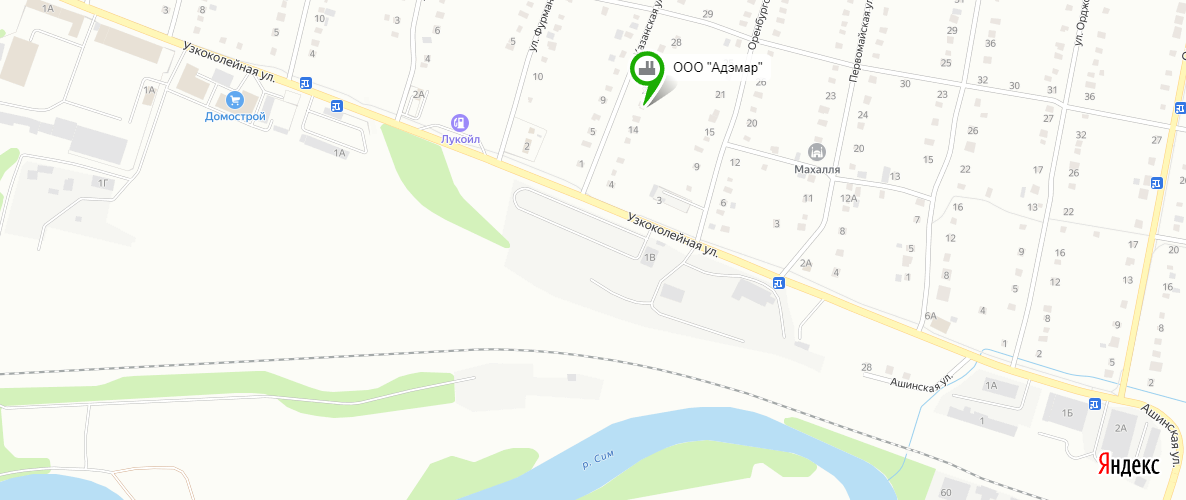
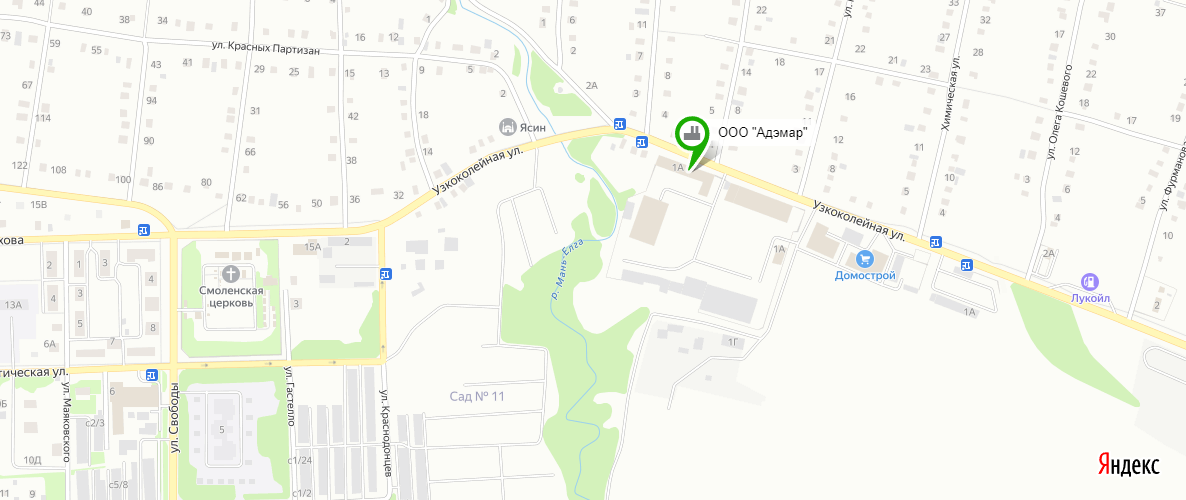
Edits from 06.10

diff --git a/source/index.html b/source/index.html
@@ -84,7 +84,7 @@
             <a class="header__contacts-link header__contacts-link--phone" href="tel:+79823304737">8 982 330 47 37</a>
           </li>
           <li class="header__contact">
-            <a class="header__contacts-link header__contacts-link--mail" href="mailto:archi00074@mail.ru">archi00074@mail.ru</a>
+            <a class="header__contacts-link header__contacts-link--mail" href="mailto:ademar_zakaz@mail.ru">ademar_zakaz@mail.ru</a>
           </li>
         </ul>
         <button class="header__button" type="button">
@@ -156,7 +156,7 @@
           <ul class="services__list">
             <li class="services__item" data-name="laser">
               <div class="services__title-wrapper">
-                <h3 class="services__item-title">Лазерная и плазменная<br>резка металла</h3>
+                <h3 class="services__item-title">Лазерная резка металла</h3>
                 <button class="services__button services__button--active" type="button">
                   <span class="visually-hidden">Показать описание услуги</span>
                 </button>
@@ -179,28 +179,19 @@
                 <p class="services__text">Максимальный диаметр отверстий – 30мм, толщина обрабатываемого металла – 20мм.</p>
               </div>
             </li>
-            <li class="services__item" data-name="pipe">
+            <li class="services__item" data-name="cutting">
               <div class="services__title-wrapper">
-                <h3 class="services__item-title">Резка труб и профилей</h3>
+                <h3 class="services__item-title">Плазменная резка металла</h3>
                 <button class="services__button services__button--active" type="button">
                   <span class="visually-hidden">Показать описание услуги</span>
                 </button>
               </div>
               <div class="services__description services__description--active">
-                <img class="services__img" src="./images/s-pipe.jpg" width="280" height="280" alt="Резка труб и профилей">
-                <p class="services__text">Наши специалисты выполняют резку металлических труб или профилей на современных моделях ленточнопильных станков. Это оборудование позволяет работать с металлопрокатом любых видов (поперечное сечение не более 260х260 мм) и обеспечивать качественный рез без заусенцев.</p>
-              </div>
-            </li>
-            <li class="services__item" data-name="cutting">
-              <div class="services__title-wrapper">
-                <h3 class="services__item-title">Раскрой листового металла</h3>
-                <button class="services__button" type="button">
-                  <span class="visually-hidden">Показать описание услуги</span>
-                </button>
-              </div>
-              <div class="services__description">
                 <img class="services__img" src="./images/s-cutting.jpg" width="280" height="280" alt="Раскрой листового металла">
-                <p class="services__text">Раскрой металла выполняем на координатно-высечном гидравлическом прессе TRUMPF ТС 200, оснащенном системой с числовым программным управлением. Данное производственное оборудование дает возможность выполнять необходимые операции с алюминиевыми, стальными и листами из нержавейки толщиной до 3 мм.</p>
+                <p class="services__text">
+                  Плазменная резка – один из самых сложных видов обработки металлов. Для реализации этих услуг требуется современное высокотехнологичное оборудование,
+                  а также профессионализм и опыт оператора. Компания "Адэмар" предлагает услуги по плазменному раскрою стальных и алюминиевых листов и плин на станках с ЧПУ.
+                </p>
               </div>
             </li>
             <li class="services__item" data-name="bendling">
@@ -224,7 +215,7 @@
               </div>
               <div class="services__description">
                 <img class="services__img" src="./images/s-welding.jpg" width="280" height="280" alt="Сварка металла">
-                <p class="services__text">Наша компания производит сварочные работы с 1999 года — за это время нами накоплен огромный опыт, который позволяет обеспечивать высочайшее качество услуг при доступной стоимости работ. Также мы значительно расширили материально-техническую базу предприятия и освоили большинство технологий термического соединения материалов.</p>
+                <p class="services__text">Наша компания производит сварочные работы с 2009 года — за это время нами накоплен огромный опыт, который позволяет обеспечивать высочайшее качество услуг при доступной стоимости работ. Также мы значительно расширили материально-техническую базу предприятия и освоили большинство технологий термического соединения материалов.</p>
               </div>
             </li>
             <li class="services__item" data-name="painting">
@@ -286,13 +277,7 @@
               <div class="services__description">
                 <img class="services__img" src="./images/s-product.jpg" width="280" height="280" alt="Пример готовой продукции">
                 <p class="services__text">
-                  Возможность изготовления крупных и очень крупных партий в короткий срок (30 – 50 тыс. шт.).
-                  Выполнение Ваших заказов по выигранным тендерам в оговоренные сроки.
-                  Сварочные работы на 6-8 сварочных постах. Все оборудование с ЧПУ.
-                  Круглосуточная работа.
-                  Две линии порошковой окраски.
-                  Изготовление металлокаркасов для производителей изделий из ДСП.
-                  Расчет по чертежам в течение двух дней.
+                  тут будет фото
                 </p>
               </div>
             </li>
@@ -343,9 +328,9 @@
           <div class="contacts__content">
             <address class="contacts__wrapper">
               <div class="contacts__inner">
-                <p class="contacts__text contacts__text--address">Челябинская область,<br>г. Аша, ул. Казанская, 18</p>
+                <p class="contacts__text contacts__text--address">Челябинская область,<br>г. Аша, ул. Узкоколейная, 1А</p>
                 <p class="contacts__text contacts__text--time">
-                  <span>Пн-Пт: <time datetime="08:00">8:00</time> - <time datetime="22:00">22:00</time></span>
+                  <span>Пн-Пт: <time datetime="08:00">08:00</time> - <time datetime="17:00">17:00</time></span>
                   <span>Сб-Вс: Выходной</span>
                 </p>
               </div>
@@ -354,7 +339,7 @@
                   <a class="contacts__link" href="tel:+79823304737">8 982 330 47 37</a>
                 </p>
                 <p class="contacts__text contacts__text--mail">
-                  <a class="contacts__link" href="mailto:archi00074@mail.ru">archi00074@mail.ru</a>
+                  <a class="contacts__link" href="mailto:ademar_zakaz@mail.ru">ademar_zakaz@mail.ru</a>
                 </p>
               </div>
             </address>
@@ -418,7 +403,6 @@
             </li>
           </ul>
         </div>
-        <p class="footer__copyright">© 2024 Адэмар</p>
       </div>
     </footer>
     <button class="scroll-up" type="button">

diff --git a/source/styles/blocks/contacts.scss b/source/styles/blocks/contacts.scss
@@ -26,7 +26,7 @@
     transform: translateY(-50%);
 
     justify-content: space-between;
-    max-width: 580px;
+    max-width: 610px;
     padding: 30px;
     background-color: $white;
     border-radius: 0 10px 10px 0;

diff --git a/source/styles/blocks/header.scss b/source/styles/blocks/header.scss
@@ -18,6 +18,9 @@
 }
 
 .header__nav {
+  font-size: 18px;
+  text-transform: uppercase;
+
   @media (max-width: calc($desktop-width - 1px)) {
     position: absolute;
     top: 100%;
